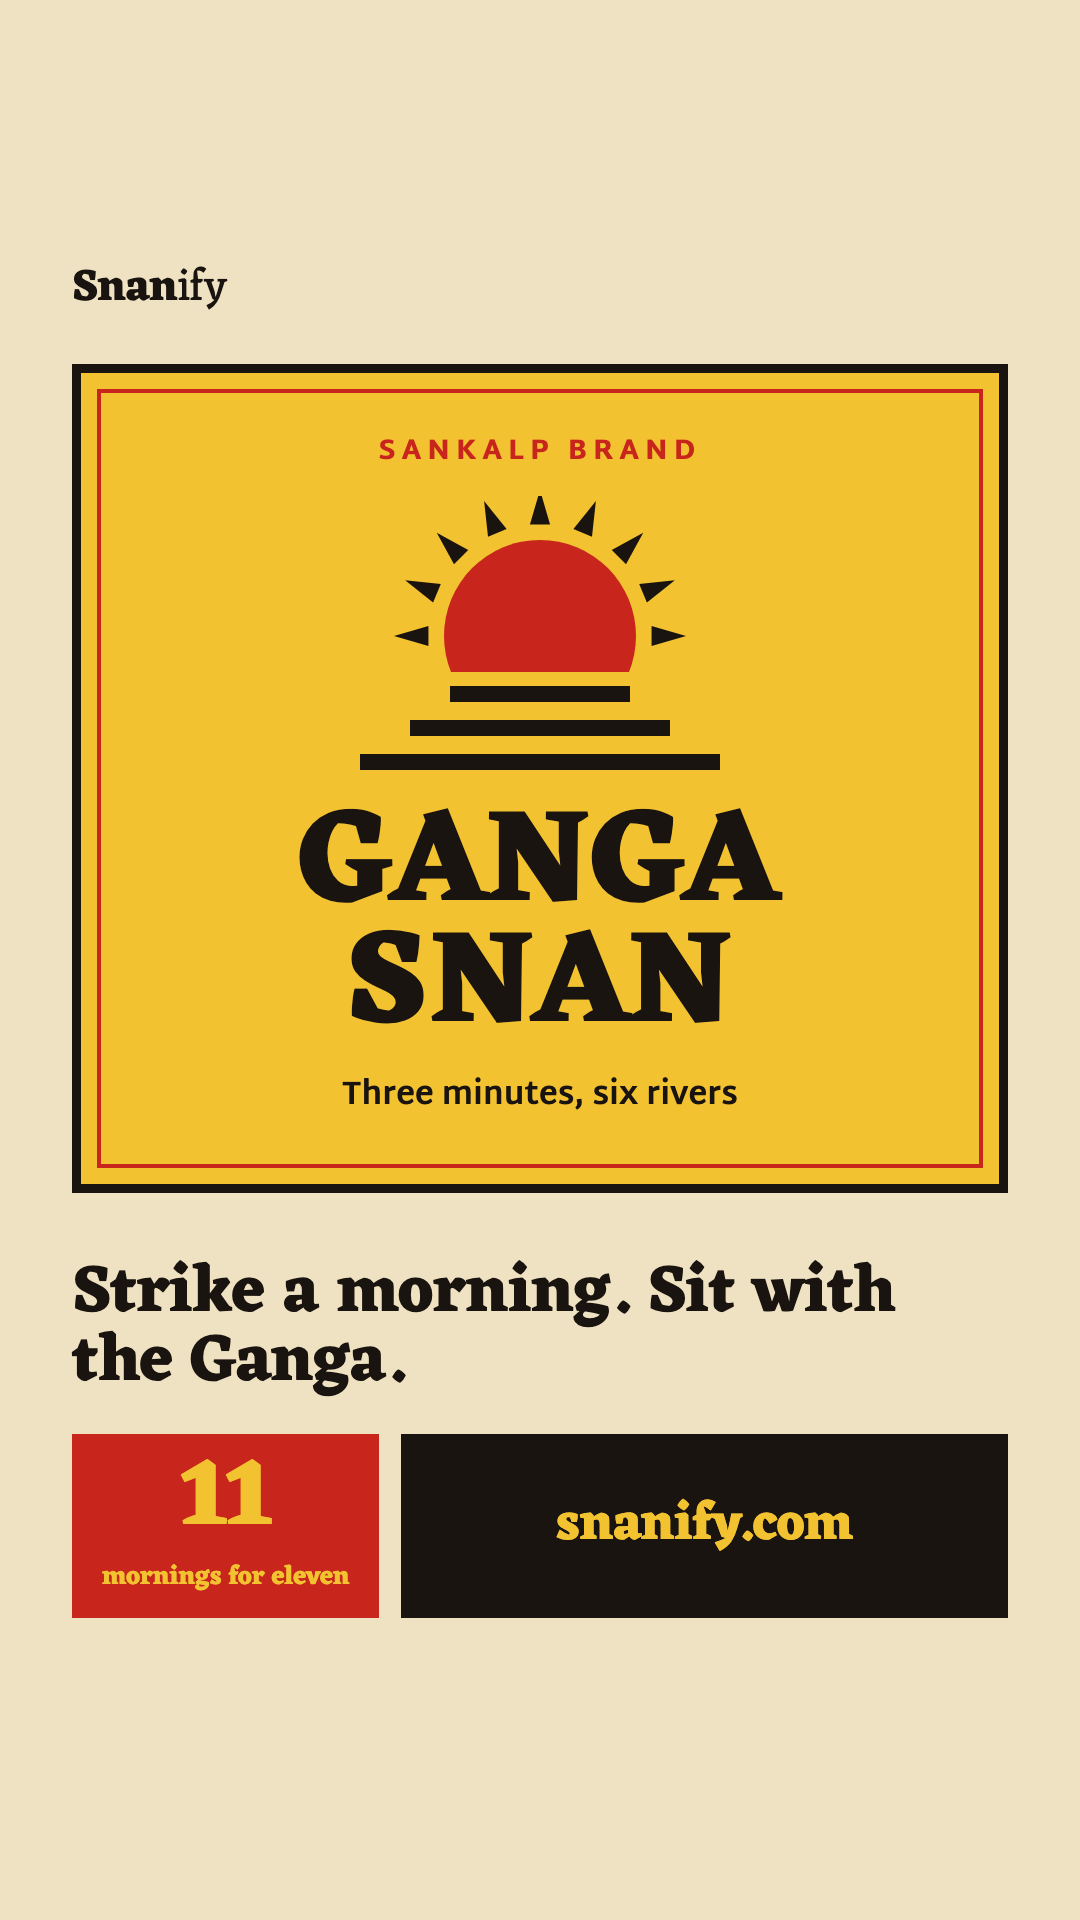
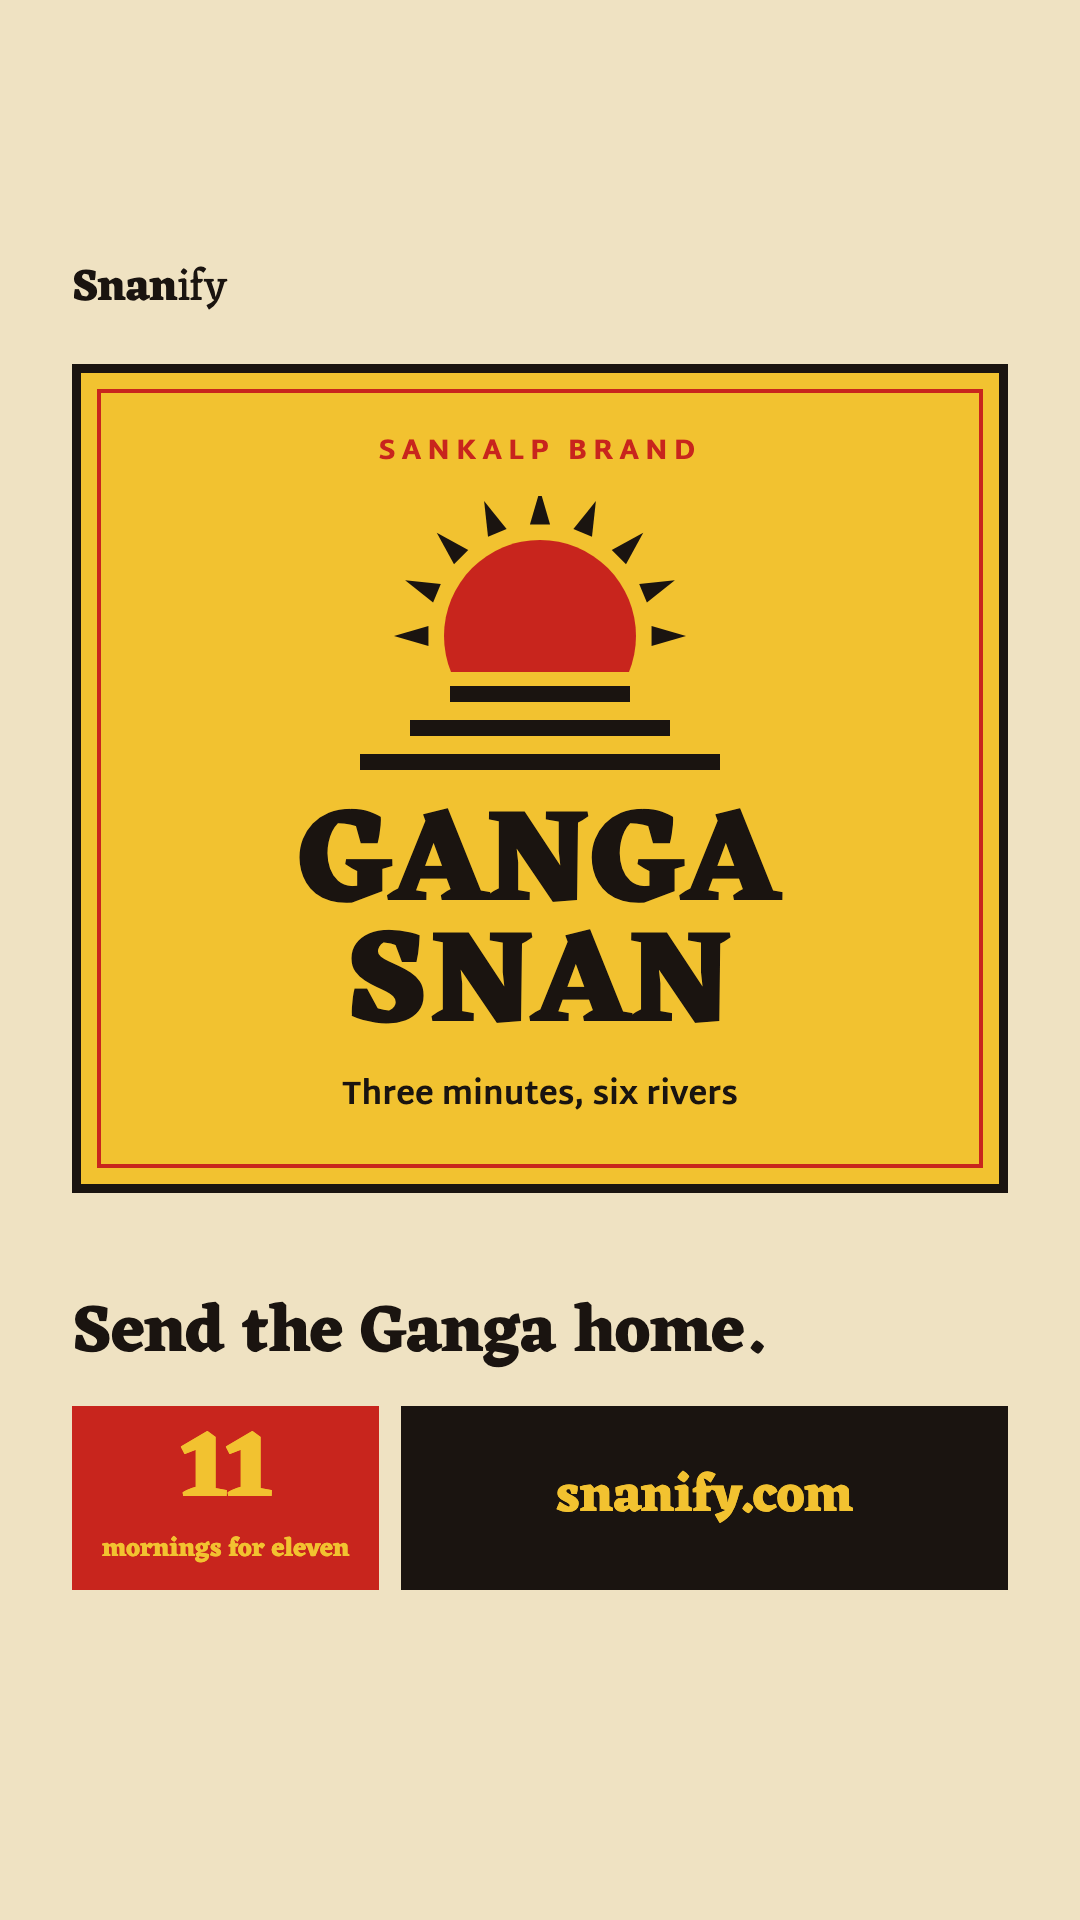
ads: the matchbox says Send the Ganga home, and strikes nothing
"Strike a morning" was a pun on the matchbox format, not on the snan: a
snan is water, a match is fire, and the Hindi "एक सुबह जलाइए" read as
burning a morning. Both matchbox sets now carry the strongest line the
product has, "Send the Ganga home." / "गंगा घर भेजिए।"; the box's brown
side still carries Start now, renamed in the template so nothing strikes.
The matchbox is a look, never a metaphor.

Changed region(s): [[0.0611, 0.6562, 0.9472, 0.8438]]

diff --git a/ads/src/loud.html b/ads/src/loud.html
@@ -58,9 +58,9 @@
   .mb .stamp .t { position: absolute; inset: 0; display: flex; flex-direction: column; align-items: center; justify-content: center; text-align: center; color: #f2c230; }
   .mb .stamp .big { font-weight: 800; font-size: var(--seal); line-height: 0.9; }
   .mb .stamp .small { font-weight: 800; font-size: 22px; line-height: 1.15; max-width: 170px; margin-top: 4px; }
-  .mb .striker { position: relative; margin: 0 -72px; height: 190px; background: #5b3420; display: flex; align-items: center; justify-content: space-between; padding: 0 72px; }
-  .mb .striker .go { position: relative; font-weight: 800; font-size: 80px; color: #f2c230; text-shadow: 6px 6px 0 #1a1410; }
-  .mb .striker .url { position: relative; font-weight: 800; font-size: 40px; color: #f2c230; }
+  .mb .side { position: relative; margin: 0 -72px; height: 190px; background: #5b3420; display: flex; align-items: center; justify-content: space-between; padding: 0 72px; }
+  .mb .side .go { position: relative; font-weight: 800; font-size: 80px; color: #f2c230; text-shadow: 6px 6px 0 #1a1410; }
+  .mb .side .url { position: relative; font-weight: 800; font-size: 40px; color: #f2c230; }
 
   /* 4:5 is shorter: the matchbox label and its type step down to fit. */
   .short.mb .hook { font-size: calc(var(--hook) * 0.84); }
@@ -69,7 +69,7 @@
   .short.mb .emblem { width: 300px; height: 214px; }
   .short.mb .name { font-size: calc(var(--name) * 0.78); }
   .short.mb .tag { font-size: 28px; margin-top: 8px; }
-  .short.mb .striker { height: 150px; }
+  .short.mb .side { height: 150px; }
   .short.mb .stamp { width: 230px; height: 230px; top: -64px; }
   .short.mb .stamp .big { font-size: calc(var(--seal) * 0.8); }
   /* A long call to action (the Hindi one) steps down to stay on one line. */
@@ -155,7 +155,7 @@
       <rect x="120" y="202" width="180" height="17" fill="#1a1410"/><rect x="74" y="236" width="272" height="17" fill="#1a1410"/><rect x="18" y="270" width="384" height="17" fill="#1a1410"/></svg>`;
   }
 
-  /* The striker: the brown strip along a matchbox's side, its grit as dots. */
+  /* The brown side of the box, its grain as dots: it carries the call to action. */
   function grit() {
     const dots = [];
     for (let i = 0; i < 260; i++) {
@@ -218,7 +218,7 @@
         </div>
       </div>
       <div class="grow"></div>
-      <div class="striker">${grit()}<span class="go d caps">${esc(p.cta)} →</span><span class="url d">snanify.com</span></div>
+      <div class="side">${grit()}<span class="go d caps">${esc(p.cta)} →</span><span class="url d">snanify.com</span></div>
     </div>`;
   } else {
     document.body.className = "cal";

diff --git a/ads/README.md b/ads/README.md
@@ -97,7 +97,7 @@ two rules, same Meta rules; the only urgency is Kartik's real start date.
 | File | What |
 | --- | --- |
 | `out/loud-signboard-{en,hi}-{diaspora,india}-{45,916}.png` | Truck art: hazard stripes round all four edges, GANGA SNAN in stacked capitals with hard offsets, a starburst price seal, a tilted black band, Start now, SNAN OK PLEASE between two diyas. The 9:16 carries the offer large |
-| `out/loud-matchbox-…` | Full-bleed red: STRIKE A MORNING, the label tilted with a hard black offset and a "No. 11", a starburst price stamp, a brown striker strip carrying Start now |
+| `out/loud-matchbox-…` | Full-bleed red: SEND THE GANGA HOME, the label tilted with a hard black offset and a "No. 11", a starburst price stamp, the box's brown side carrying Start now |
 | `out/loud-calendar-…` | Kartik calendar art: the painted ghat with the sun turned up, a gold sash "Starts 27 October", KARTIK SNAN with a gold offset, Start now on a cream bar |
 
 Re-render: `node ads/src/render-loud.mjs` (or one style: `signboard`, `matchbox`, `calendar`). Words:
